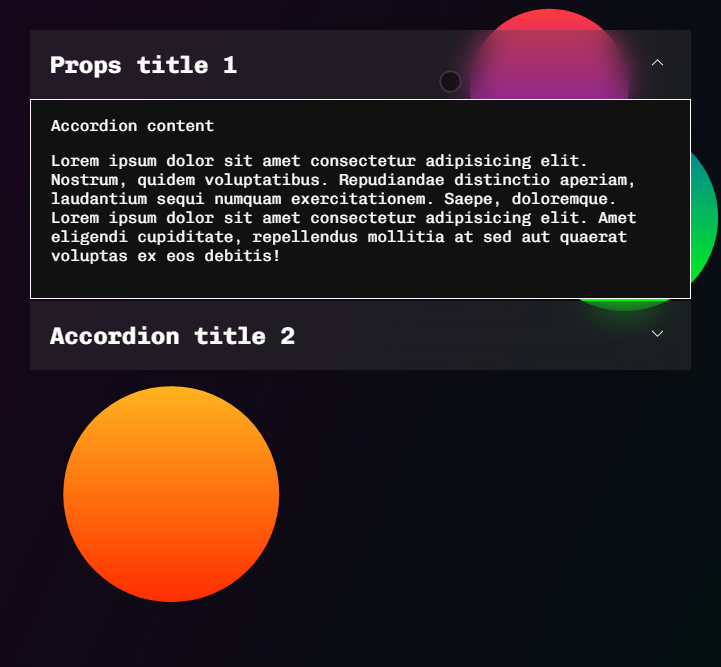
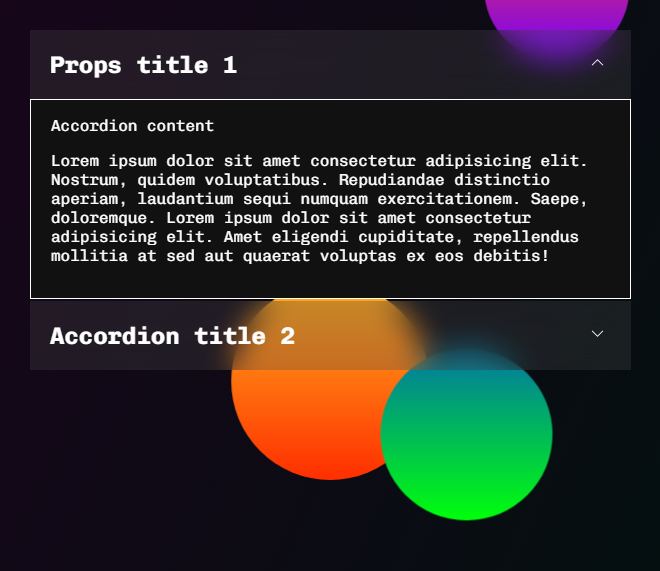
fix screen images display

diff --git a/src/App.js b/src/App.js
@@ -12,7 +12,7 @@ import {
 function App() {
   return (
     <div className='App'>
-      <FogAccordionBackground>
+      <FogAccordionBackground darkMode>
         <FogAccordion cube>
           <FogAccordionItem>
             <FogAccordionHeader index={0}>

diff --git a/README.md b/README.md
@@ -6,10 +6,10 @@ Graphical control element comprising a vertically stacked list of items. Each it
 
 Accordion-fog is still on the development and learning stage. Feel free to give a feedback, suggestion or advise. Animated circles are main feature of this accordion, be sure to check them out by using `FogAccordionBackground` or `FogAccordionCircles` components.
 
-<div style="display: flex">
-    <img src="/public/screen-light.png" alt='screen-light' width="50%" />
-    <img src="/public/screen-dark.png" alt='screen-dark' width="50%" />
-</div>
+<table>
+    <td><img src="/public/screen-light.png" alt='screen-light'/></td>
+    <td><img src="/public/screen-dark.png" alt='screen-dark'/></td>
+</table>
 
 ## Example
 
